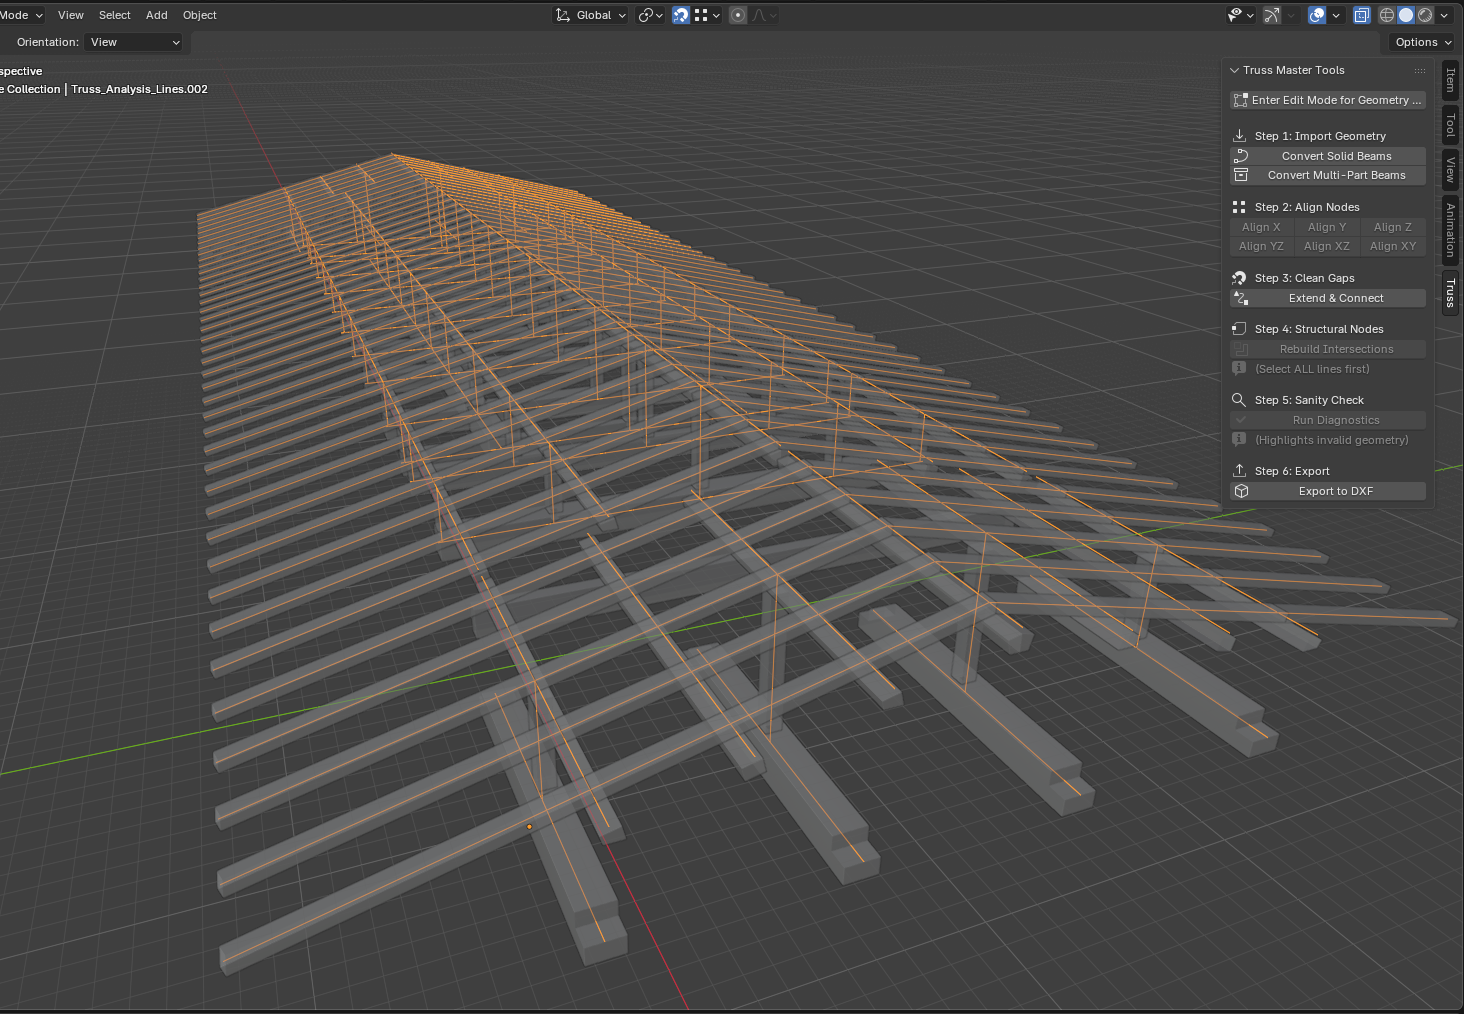
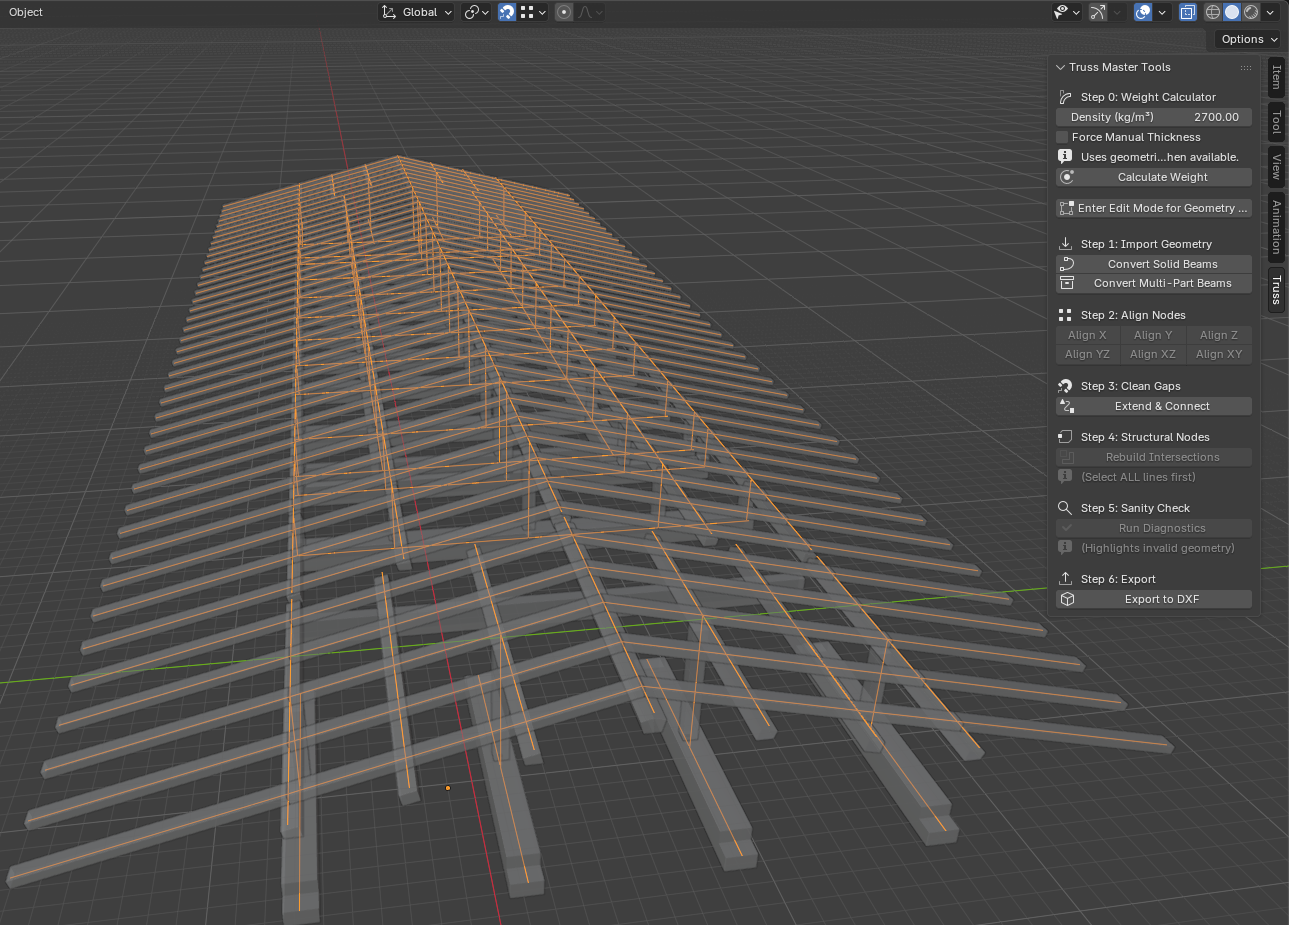
feat: integrate weight calculator into truss add-on

diff --git a/truss.py b/truss.py
@@ -12,7 +12,7 @@ import bpy
 import bmesh
 import mathutils
 from bpy_extras.io_utils import ExportHelper
-from bpy.props import StringProperty
+from bpy.props import StringProperty, FloatProperty, BoolProperty
 
 # ==============================================================================
 #   OPERATOR 1A: STANDARD CONVERT (STRICT)
@@ -540,7 +540,72 @@ class TRUSS_OT_SanityCheck(bpy.types.Operator):
 
 
 # ==============================================================================
-#   OPERATOR 6: EXPORT TO DXF
+#   OPERATOR 6: WEIGHT CALCULATOR
+# ==============================================================================
+
+class TRUSS_OT_CalculateWeight(bpy.types.Operator):
+    """Calculates object weight from mesh volume or manual area and thickness"""
+    bl_idname = "truss.calculate_weight"
+    bl_label = "Calculate Weight"
+    bl_options = {'REGISTER', 'UNDO'}
+
+    def execute(self, context):
+        density = context.scene.calc_density
+        thickness_manual = context.scene.calc_thickness
+        is_double_sided = context.scene.calc_double_sided
+        force_override = context.scene.calc_force_override
+
+        selected_objs = [obj for obj in context.selected_objects if obj.type == 'MESH']
+        if not selected_objs:
+            self.report({'WARNING'}, "No mesh objects selected.")
+            return {'CANCELLED'}
+
+        total_volume = 0.0
+        method_report = "Volume (Geometric)"
+        depsgraph = context.evaluated_depsgraph_get()
+
+        for obj in selected_objs:
+            obj_eval = obj.evaluated_get(depsgraph)
+            mesh = obj_eval.to_mesh()
+
+            bm = bmesh.new()
+            bm.from_mesh(mesh)
+            bmesh.ops.transform(bm, matrix=obj.matrix_world, verts=bm.verts)
+
+            use_manual = force_override
+            vol = 0.0
+
+            if not use_manual:
+                vol = bm.calc_volume()
+                if abs(vol) < 0.0001:
+                    use_manual = True
+
+            if use_manual:
+                area = sum(face.calc_area() for face in bm.faces)
+                if is_double_sided:
+                    area = area / 2.0
+                vol = area * thickness_manual
+                method_report = "Manual (Area x Thickness)"
+
+            total_volume += abs(vol)
+            bm.free()
+            obj_eval.to_mesh_clear()
+
+        weight_kg = total_volume * density
+        weight_kn = (weight_kg * 9.81) / 1000.0
+
+        context.scene["last_calc_volume"] = total_volume
+        context.scene["last_calc_weight"] = weight_kg
+        context.scene["last_calc_force"] = weight_kn
+        context.scene["last_calc_method"] = method_report
+        context.scene["last_obj_count"] = len(selected_objs)
+
+        self.report({'INFO'}, f"Calculated weight for {len(selected_objs)} objects.")
+        return {'FINISHED'}
+
+
+# ==============================================================================
+#   OPERATOR 7: EXPORT TO DXF
 # ==============================================================================
 
 class TRUSS_OT_ExportDXF(bpy.types.Operator, ExportHelper):
@@ -610,6 +675,32 @@ class TRUSS_PT_MainPanel(bpy.types.Panel):
     def draw(self, context):
         layout = self.layout
         is_edit = (context.mode == 'EDIT_MESH')
+
+        # --- STEP 0: WEIGHT CALCULATOR ---
+        col = layout.column(align=True)
+        col.label(text="Step 0: Weight Calculator", icon='MOD_SIMPLEDEFORM')
+        col.prop(context.scene, "calc_density", text="Density (kg/m³)")
+        col.prop(context.scene, "calc_force_override", text="Force Manual Thickness")
+
+        if context.scene.calc_force_override:
+            box = col.box()
+            box.label(text="Geometry volume is ignored.", icon='ERROR')
+            box.prop(context.scene, "calc_thickness", text="Manual Thickness (m)")
+            box.prop(context.scene, "calc_double_sided", text="Double Sided Geometry")
+        else:
+            col.label(text="Uses geometric volume when available.", icon='INFO')
+
+        col.operator("truss.calculate_weight", text="Calculate Weight", icon='PHYSICS')
+
+        if context.scene.get("last_calc_weight") is not None:
+            box = col.box()
+            box.label(text=f"Selected Objects: {context.scene.get('last_obj_count', 0)}")
+            box.label(text=f"Total Weight: {context.scene['last_calc_weight']:.2f} kg")
+            row = box.row()
+            row.alert = True
+            row.label(text=f"Load: {context.scene['last_calc_force']:.2f} kN")
+            box.label(text=f"Method: {context.scene.get('last_calc_method', 'Unknown')}")
+        col.separator()
         
         # --- HELPER BUTTON ---
         if not is_edit:
@@ -678,6 +769,7 @@ class TRUSS_PT_MainPanel(bpy.types.Panel):
 # ==============================================================================
 
 classes = (
+    TRUSS_OT_CalculateWeight,
     TRUSS_OT_ConvertLines,
     TRUSS_OT_ConvertAssemblyLines,
     TRUSS_OT_AlignVertices,
@@ -691,8 +783,16 @@ classes = (
 def register():
     for cls in classes:
         bpy.utils.register_class(cls)
+    bpy.types.Scene.calc_density = FloatProperty(name="Density", default=2700.0)
+    bpy.types.Scene.calc_thickness = FloatProperty(name="Thickness", default=0.03)
+    bpy.types.Scene.calc_double_sided = BoolProperty(name="Double Sided", default=True)
+    bpy.types.Scene.calc_force_override = BoolProperty(name="Force Override", default=False)
 
 def unregister():
+    del bpy.types.Scene.calc_density
+    del bpy.types.Scene.calc_thickness
+    del bpy.types.Scene.calc_double_sided
+    del bpy.types.Scene.calc_force_override
     for cls in classes:
         bpy.utils.unregister_class(cls)
 

diff --git a/README.md b/README.md
@@ -15,6 +15,8 @@ Align vertices before rebuilding structural joints and nodes.
 
 ![Align vertices](align_vertices.png)
 
+Calculate weight and load directly from selected mesh objects.
+
 ## What it does
 
 - Converts solid beam geometry into centerline truss members
@@ -23,6 +25,7 @@ Align vertices before rebuilding structural joints and nodes.
 - Extends and connects loose line ends
 - Rebuilds intersections into connected line segments
 - Runs a sanity check for short edges and floating vertices
+- Calculates weight and load from mesh volume or manual thickness
 - Exports truss lines to DXF
 
 ## Requirements
